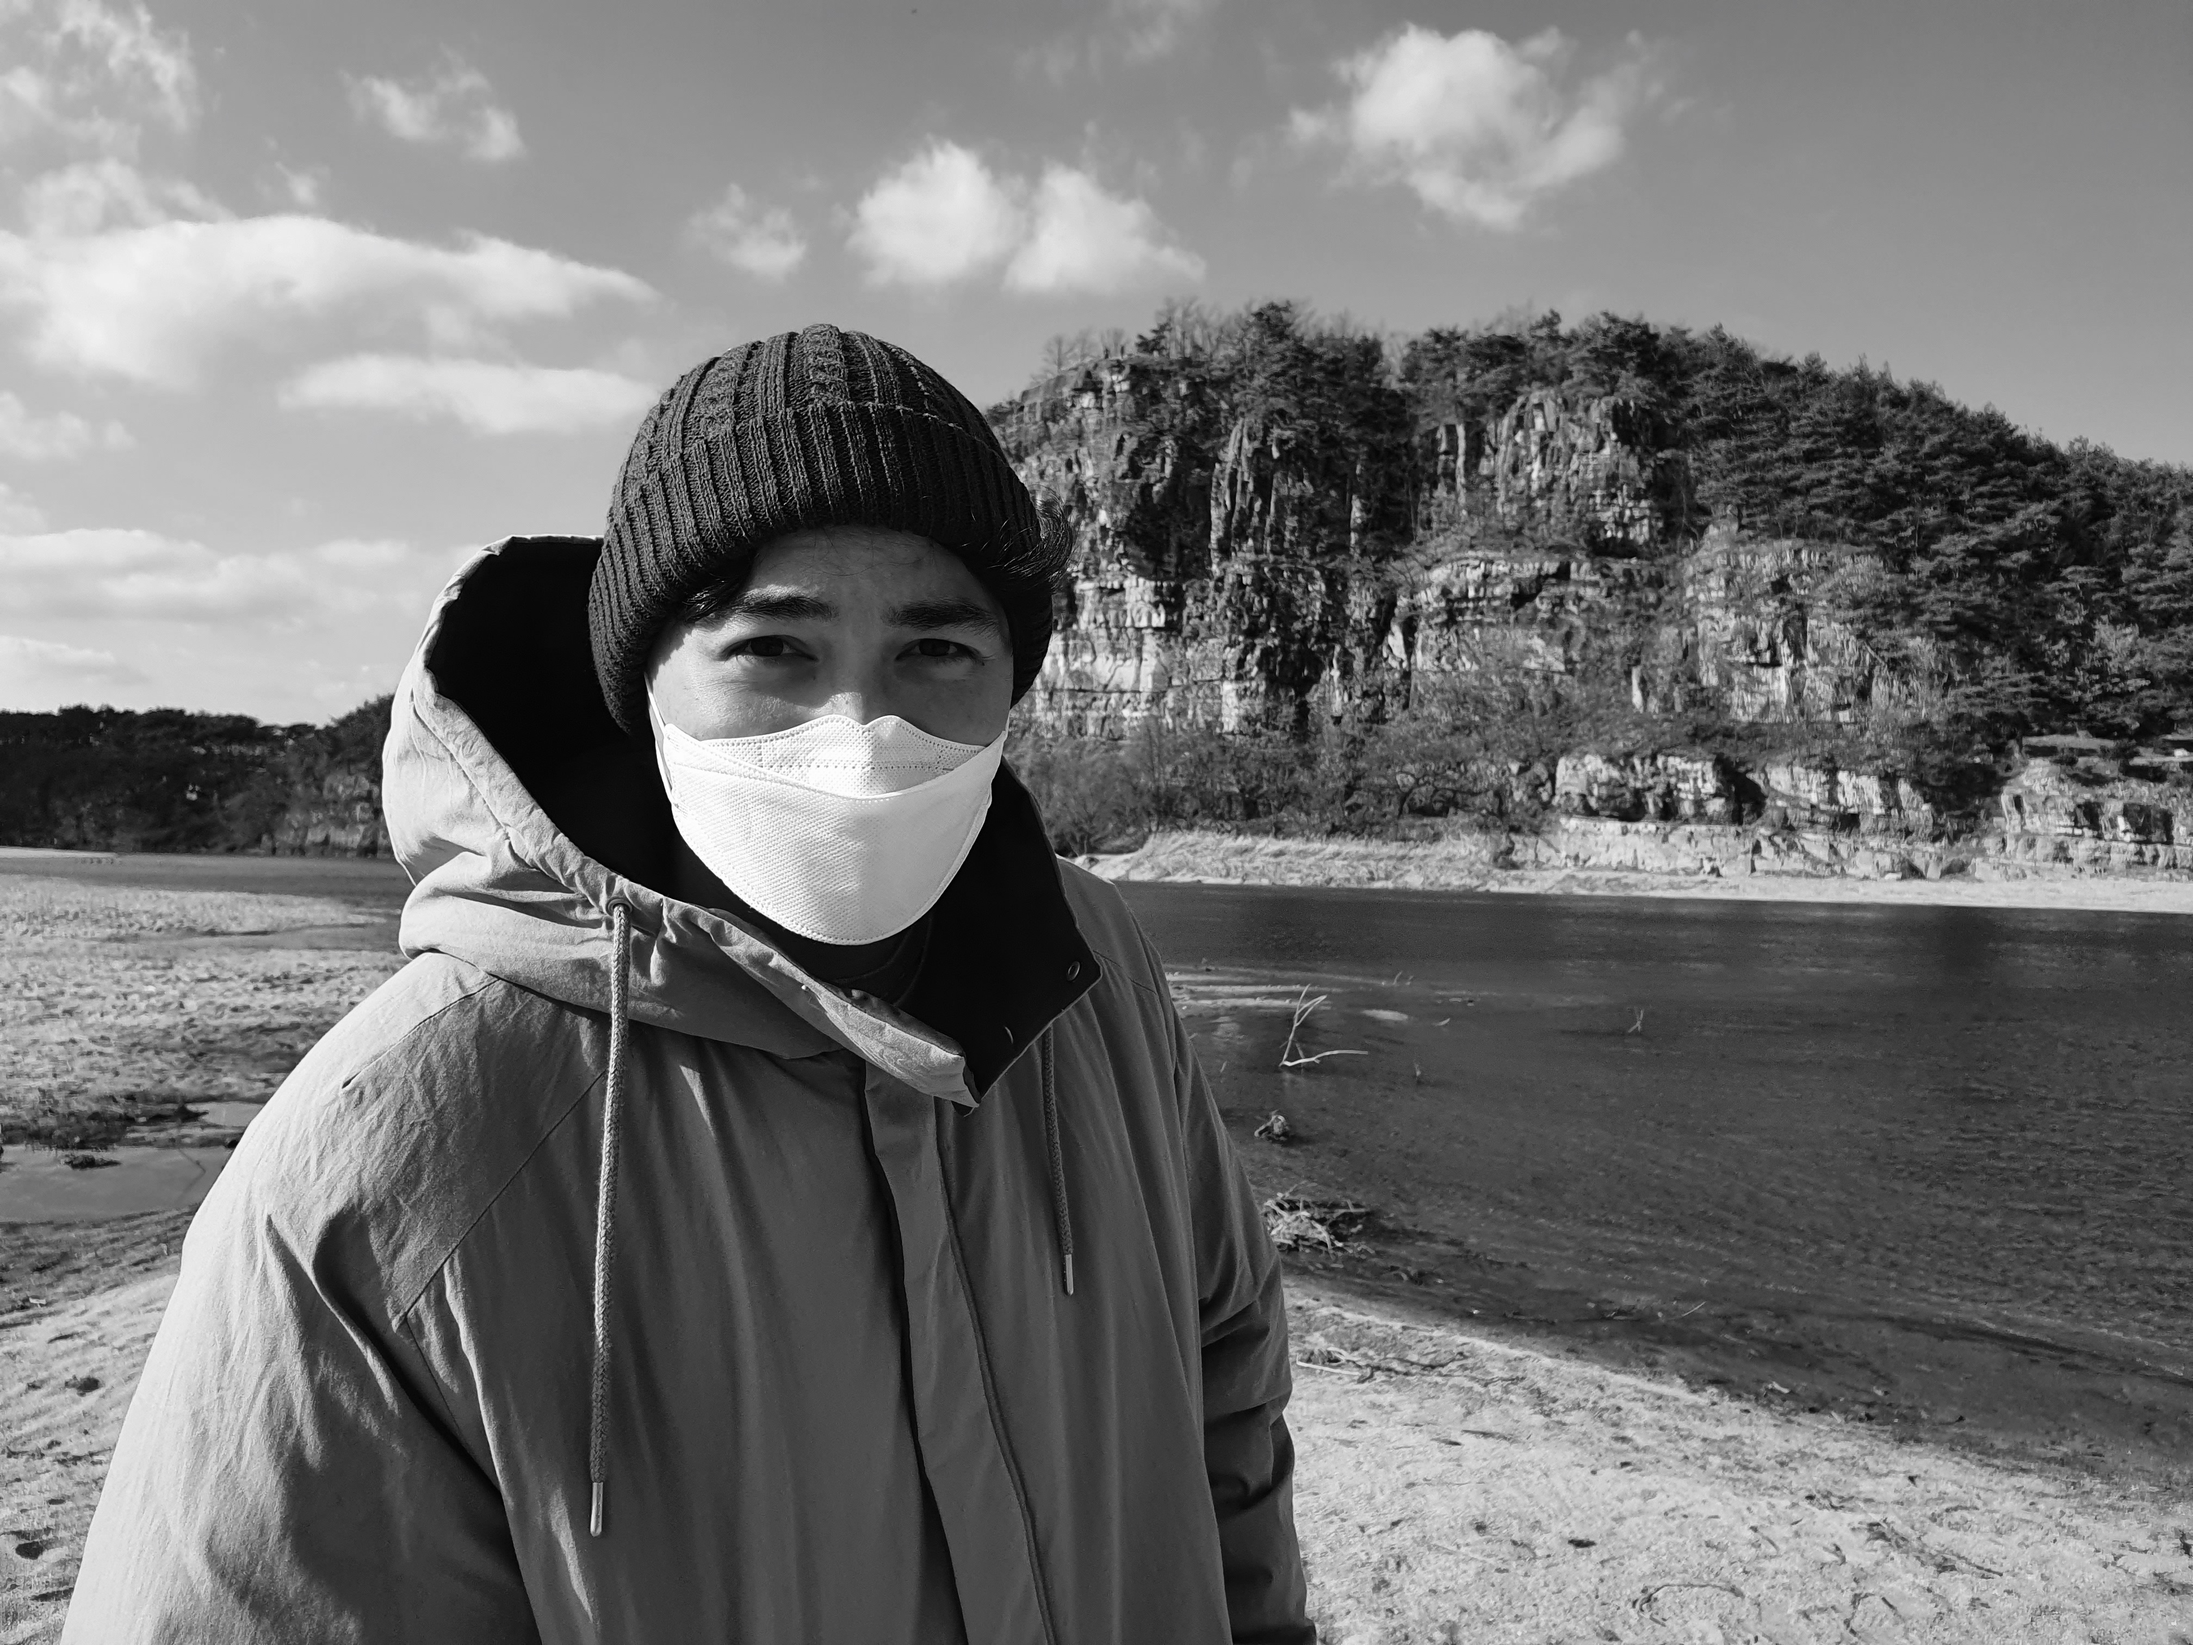
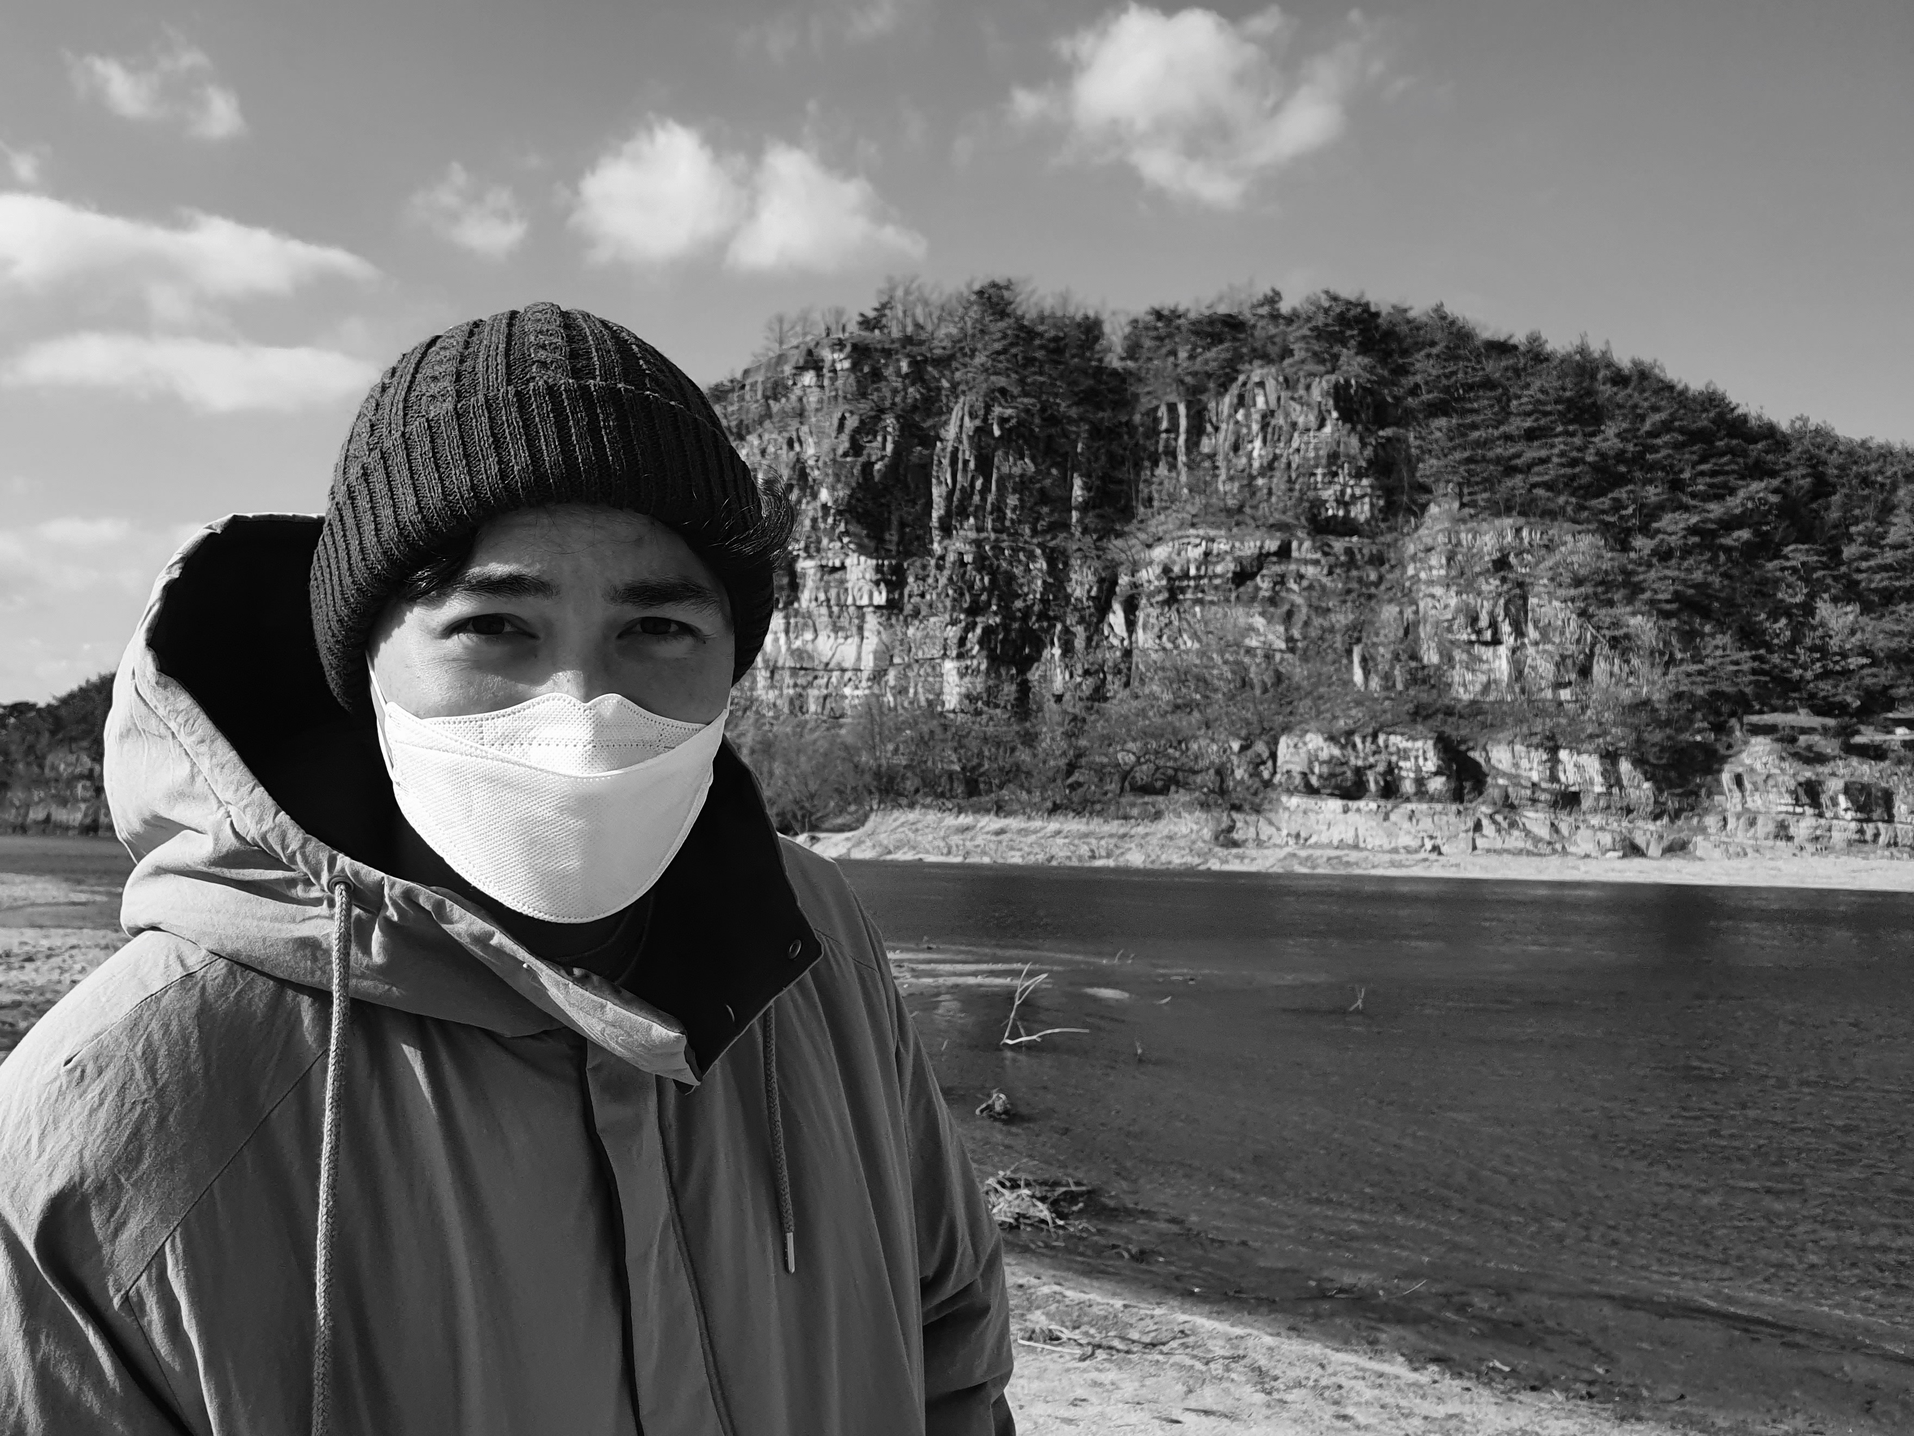
landing page style setup

diff --git a/client/src/pages/Home.js b/client/src/pages/Home.js
@@ -1,40 +1,44 @@
 import { Button, Col, Container, Row } from "react-bootstrap"
 import { Link } from "react-router-dom"
-import { MAX_BLUE, MAX_DARK, MAX_WHITE } from "../colors"
+import { CONTENT_BACKGROUND_GRAY, MAX_BLUE, MAX_DARK, MAX_WHITE } from "../colors"
 
 
 
 const Home = () => {
   return(
-    <div>
+    <div style={{ height: '90vh', padding: '1em'}}>
       <Container >
-        <Row>
-          <Col>
-            <h1 style={{color:`${MAX_BLUE}`}}>Max Manayan</h1>
+        <Row style={{paddingTop: '2em', paddingLeft: '1em'}}>
+          <Col xs={12} md={{span: 6, offset: 5}}>
+            <h1 style={{color:`${MAX_BLUE}`, fontSize: '10em'}}>Max Manayan</h1>
+          </Col>
+        </Row>
+
+        <Row style={{paddingBottom: '3em', paddingLeft: '1em'}}>
+          <Col  xs={12} md={{span: 6, offset: 5}}>
+            <h2 style={{color:`${MAX_DARK}`, fontSize: '3em'}}>Software Engineer</h2>
           </Col>
         </Row>
 
         <Row>
-          <Col>
-            <h2 style={{color:`${MAX_DARK}`}}>Software Engineer</h2>
-          </Col>
-        </Row>
-
-        <Row>
-          <Col>
-            <Link to="/portfolio">
-              <Button style={{background:`${MAX_BLUE}`, borderColor:`${MAX_BLUE}`}}>Portfolio</Button>
-            </Link>
-          </Col>
-          <Col>
-            <Link to="/about">
-              <Button style={{background:`${MAX_BLUE}`, borderColor:`${MAX_BLUE}`}}>About</Button>
-            </Link>
-          </Col>
-          <Col>
-            <Link to="/connect">
-              <Button style={{background:`${MAX_BLUE}`, borderColor:`${MAX_BLUE}`}}>Connect</Button>
-            </Link>
+          <Col  xs={12} md={{span: 6, offset: 5}}>
+            <Row>
+              <Col xs={12} md={{span: 4}} style={{display: 'flex', justifyContent: 'center'}}>
+                <Link to="/portfolio">
+                  <Button style={{background:`${MAX_BLUE}`, borderColor:`${MAX_BLUE}`}}>Portfolio</Button>
+                </Link>
+              </Col>
+              <Col xs={12} md={{span: 4}} style={{display: 'flex', justifyContent: 'center'}} >
+                <Link to="/about">
+                  <Button style={{background:`${MAX_BLUE}`, borderColor:`${MAX_BLUE}`}}>About</Button>
+                </Link>
+              </Col>
+              <Col xs={12} md={{span: 4}} style={{display: 'flex', justifyContent: 'center'}} >
+                <Link to="/connect">
+                  <Button style={{background:`${MAX_BLUE}`, borderColor:`${MAX_BLUE}`}}>Connect</Button>
+                </Link>
+              </Col>
+            </Row>
           </Col>
         </Row>
       </Container>

diff --git a/client/src/components/NavBar.js b/client/src/components/NavBar.js
@@ -4,7 +4,7 @@ import { MAX_BLUE, MAX_DARK, MAX_WHITE } from "../colors"
 const NavBar = () => {
   return(
     <>
-      <Navbar collapseOnSelect expand="lg" style={{background: `${MAX_DARK}`}}>
+      <Navbar sticky="top" collapseOnSelect expand="lg" style={{background: `${MAX_DARK}`}}>
         <Navbar.Brand href="/" style={{color: `${MAX_BLUE}`}}>Home</Navbar.Brand>
         <Navbar.Toggle aria-controls="responsive-navbar-nav" />
         <Navbar.Collapse id="responsive-navbar-nav" style={{color: `${MAX_WHITE}`}}>

diff --git a/client/src/App.css b/client/src/App.css
@@ -46,8 +46,8 @@
 
 .page-background {
   background-image: url(./images/home.jpeg);
-  background-color: #efefef;
-  background-blend-mode:luminosity;
+  background-color: #efefefc2;
+  background-blend-mode:soft-light;
   background-position: center;
   background-repeat: no-repeat;
   background-size: cover;

diff --git a/client/src/App.js b/client/src/App.js
@@ -12,7 +12,7 @@ function App() {
   return (
     <div className="app-background">
       <div className="page-background">
-        <NavBar />
+        <NavBar/>
         <Switch>
           <Route exact path="/" component={Home} />
           <Route exact path="/about" component={About} />

diff --git a/client/src/colors.js b/client/src/colors.js
@@ -6,3 +6,5 @@ export const MAX_WHITE = "#EFEFEF"
 
 export const MAX_DARK = "#202020"
 
+export const CONTENT_BACKGROUND_GRAY = "#efefef20"
+
